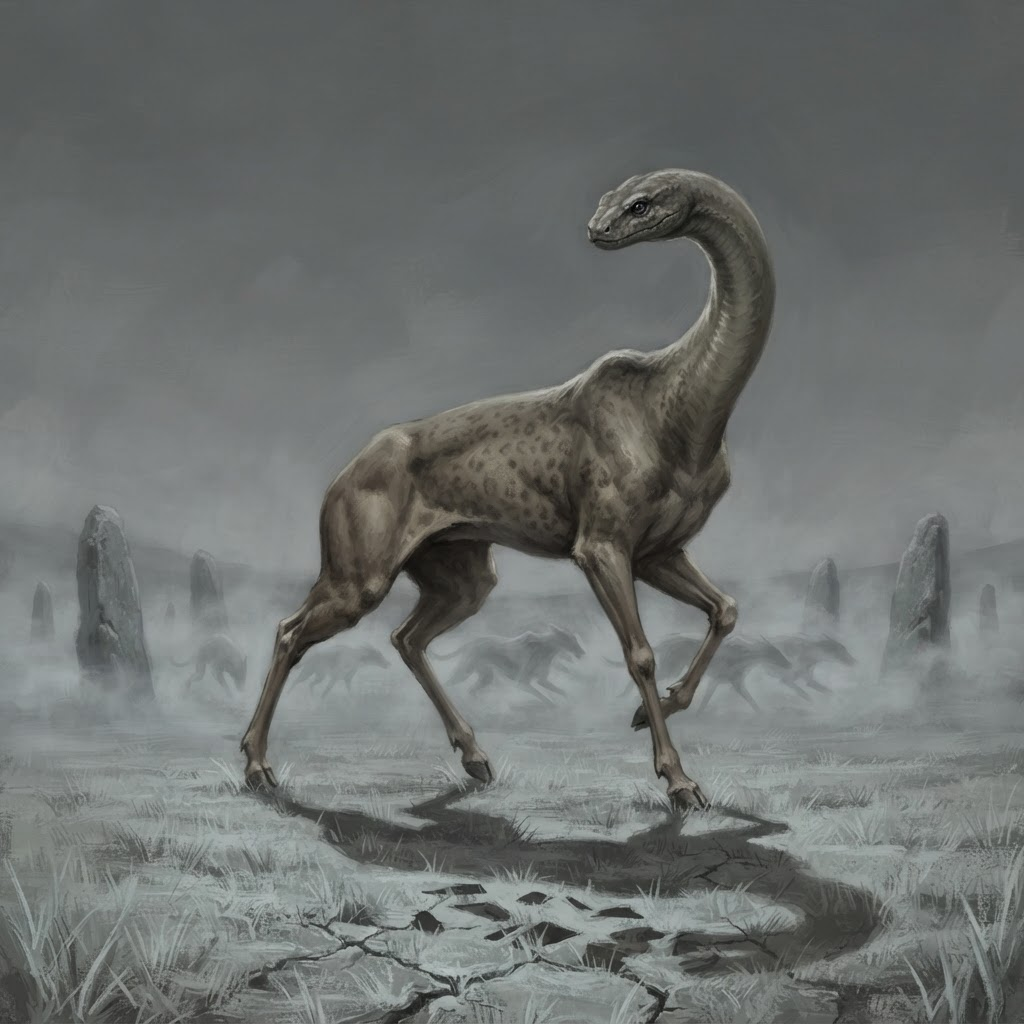
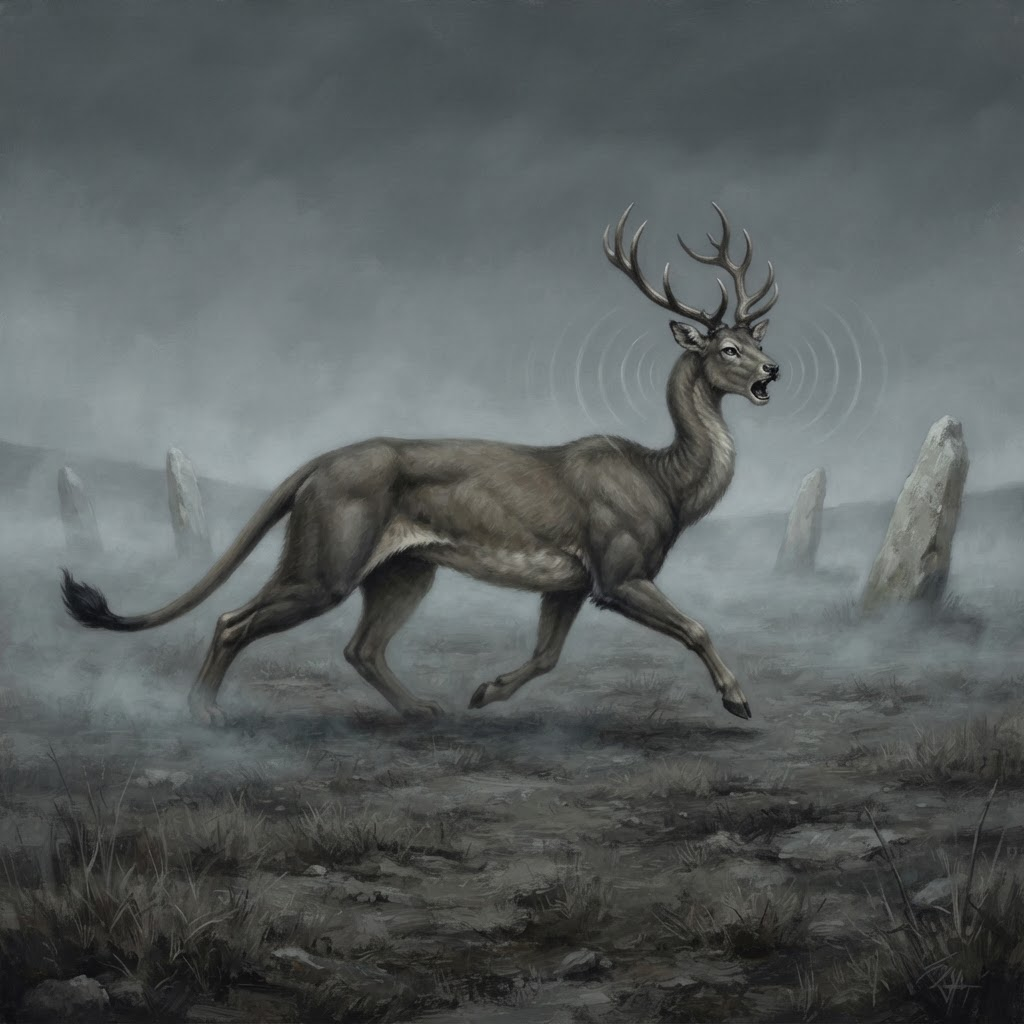
Questing Beast: restore Glatisant V1 as primary pending, re-roll tracked as V2 - two takes in Big's court, verdict picks one

diff --git a/docs/CANON-LOCKS.md b/docs/CANON-LOCKS.md
@@ -1,26 +1,2 @@
 
-## T1 UNDONE — V8 CANON LOCKED (Sept 7 2026, Big: 'Keep that art Canon')
-- MASTER: art/approved/HOLLOW-T1-UNDONE-CANON-V8-SCENE.png
-- Blue-hour village square; Undone frozen mid-routine (loom worker, chanting trio, two carriers), evenly spaced all facing one way
-- Intact weathered clothes; face = void-black cavity (no glow, light lands ON them); one pristine cold-lantern remnant at the shrine
-- Stone kilns, smoke haze, broken caldera ridge behind
-- This is the style bar for the Hollow roster canon pass; one piece at a time through Big's gate
-
-## T2 UNMADE CHAMPION — CANON LOCKED (Sept 7 2026, Big: 'Approved')
-- MASTER: art/approved/HOLLOW-T2-UNMADE-CHAMPION-CANON-V8-FACELAW.png
-- V8 style + FACE-LAW compliant: road-worn plate fully intact, ONE absence = void-black behind the raised visor (mist inside the helmet only), guarding a gate that leads nowhere, immaculate polished sword remnant
-- Supersedes: the banned breastplate-void cut (73d33d32, replaced)
-
----
-
-## ENEMY-ART PASS — SEPT 8-9, 2026 (the Hollow Tide, Mythic Celtic era)
-**Governing laws (docs/HOLLOW_TIDE_BESTIARY.md, commits eb88877 + 660be32): realm-neutral staging (no realm colorway/landmarks/light), zero script, unlit lanterns, fog canon.**
-
-- **T1 MUTEFOLK — CANON LOCKED** (Big: 'Keep the mutefolk' / 'Keep that last image love it will the fog') — art/approved/ENEMY-T1-MUTEFOLK-CANON.png (neutral V3; commit e191813). Craft clothing survives erasure (made things persist).
-- **T1 SHADE-BEASTS — CANON LOCKED** (Big: 'Keep') — art/approved/ENEMY-T1-SHADE-BEASTS-CANON.png (commit 95fb6d8). Fauna bodies ARE → whole-beast outline erasure; absence eyes; no shadow.
-- **T1 GRIMLIGHTS — CANON LOCKED** (Big: 'Keep') — art/approved/ENEMY-T1-GRIMLIGHTS-CANON.png (commit 26c4f97). Void-mote swarm, lightless; light forgets itself in their presence. **T1 TIER COMPLETE.**
-- **T2 UNMADE CHAMPION — CANON LOCKED** (Big: 'Keep unmade champion', hooded per his order) — art/approved/ENEMY-T2-UNMADE-CHAMPION-CANON.png (commit 6787083). Stolen Mythic Celtic armor fully colored, hood not helm, smooth-absence face, armor stays behind when it falls (loot = lore).
-- **X ACCOUNT GAME LOGO V1** — art/pending/X-ACCOUNT-GAME-LOGO-V1.png (commit d579152) — IN COURT.
-- **UNITY-FIRST 3D LAW** (Big, Sept 9) — 3D models come from Unity + its Asset Store, matched + customized against the locked 2D canon art. The 404-GEN image-to-3D pipeline is RETIRED and removed (Meshy/TripoSR route deleted Sept 9).
-
-_Note: earlier Hollow canon entries above predate the Sept 8-9 Mythic Celtic enemy pass; where they conflict, the Sept 8-9 pass + its laws supersede._
+- **QUESTING BEAST — two takes in court (Sept 9):** V1 the Glatisant (first send) + V2 mid-turn re-roll. Both pending; Big picks one or orders a fresh roll.
